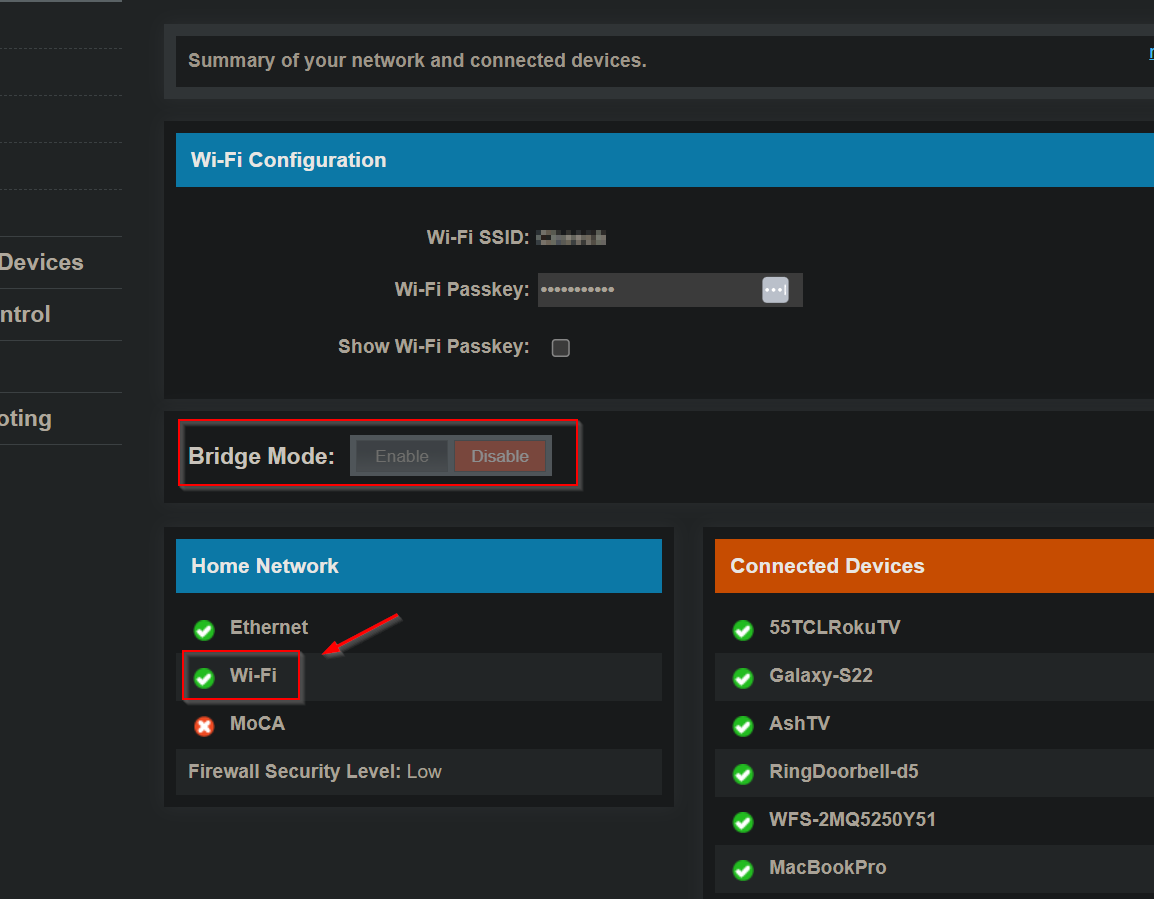
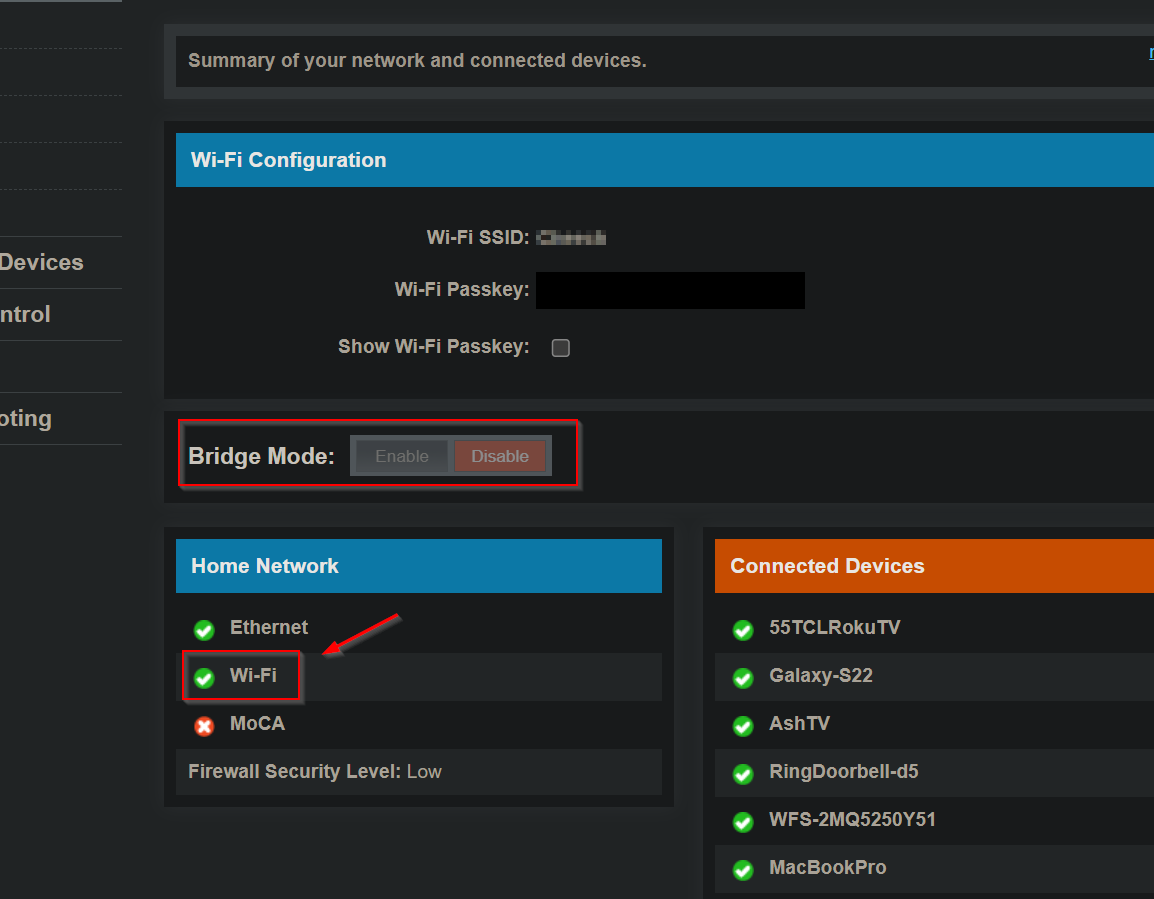
security: use solid redaction boxes on four screenshots; add a public-safety check

Changed region(s): [[0.4367, 0.2803, 0.7175, 0.3426]]

diff --git a/scripts/check-public-safety.py b/scripts/check-public-safety.py
@@ -1,0 +1,87 @@
+#!/usr/bin/env python3
+"""Fail on things that must not appear in a public repo.
+
+Checks tracked text files for MAC addresses and non-private IPv4 addresses, and
+lists image files that need a human to look at them (a scanner cannot read a
+screenshot). Known false positives go in .public-safety-allow, one exact match
+per line ("path:value" or just "value").
+
+Usage: scripts/check-public-safety.py [--images-since GIT_REF]
+Exit 0 = clean, 1 = findings.
+"""
+import ipaddress, re, subprocess, sys
+from pathlib import Path
+
+TEXT_SKIP = {".png", ".jpg", ".jpeg", ".gif", ".webp", ".pdf", ".ico", ".woff", ".woff2", ".zip"}
+IMAGE_EXT = {".png", ".jpg", ".jpeg", ".gif", ".webp"}
+MAC = re.compile(r"(?<![0-9A-Fa-f:.-])(?:[0-9A-Fa-f]{2}[:-]){5}[0-9A-Fa-f]{2}(?![0-9A-Fa-f:-])")
+IPV4 = re.compile(r"(?<![\w.])(\d{1,3}(?:\.\d{1,3}){3})(?![\w]|\.\d)")
+PLACEHOLDER_MACS = {"aa:bb:cc:dd:ee:ff", "00:00:00:00:00:00", "ff:ff:ff:ff:ff:ff", "xx:xx:xx:xx:xx:xx"}
+DOC_NETS = [ipaddress.ip_network(n) for n in ("192.0.2.0/24", "198.51.100.0/24", "203.0.113.0/24")]
+CGNAT = ipaddress.ip_network("100.64.0.0/10")
+# Well-known public resolvers that appear in DNS documentation; they identify nobody.
+# 100.64.0.0 is the CGNAT network address used when documenting the tailnet range, not a host.
+KNOWN_PUBLIC = {"100.64.0.0", "1.1.1.1", "1.0.0.1", "8.8.8.8", "8.8.4.4", "9.9.9.9", "149.112.112.112", "208.67.222.222", "208.67.220.220"}
+
+def tracked_files():
+    out = subprocess.check_output(["git", "ls-files", "-z"], text=True)
+    return [Path(p) for p in out.split("\0") if p]
+
+def load_allow():
+    p = Path(".public-safety-allow")
+    return {l.strip() for l in p.read_text().splitlines() if l.strip() and not l.startswith("#")} if p.exists() else set()
+
+def classify(ip_text):
+    if ip_text in KNOWN_PUBLIC:
+        return None
+    try:
+        ip = ipaddress.ip_address(ip_text)
+    except ValueError:
+        return None
+    if any(ip in n for n in DOC_NETS) or ip.is_unspecified or ip.is_multicast:
+        return None
+    if ip in CGNAT:
+        return "tailnet address (identifies a device)"
+    if ip.is_private or ip.is_loopback or ip.is_link_local:
+        return None
+    return "public IPv4 address"
+
+def main():
+    allow = load_allow()
+    findings, images = [], []
+    for path in tracked_files():
+        if path.suffix.lower() in IMAGE_EXT:
+            images.append(path)
+        if path.suffix.lower() in TEXT_SKIP or not path.is_file():
+            continue
+        try:
+            text = path.read_text(errors="ignore")
+        except OSError:
+            continue
+        for n, line in enumerate(text.splitlines(), 1):
+            for m in MAC.finditer(line):
+                v = m.group(0)
+                if v.lower() in PLACEHOLDER_MACS or v in allow or f"{path}:{v}" in allow:
+                    continue
+                findings.append((path, n, "MAC address", v))
+            for m in IPV4.finditer(line):
+                v = m.group(1)
+                kind = classify(v)
+                if kind and v not in allow and f"{path}:{v}" not in allow:
+                    findings.append((path, n, kind, v))
+    for path, n, kind, v in findings:
+        print(f"::error file={path},line={n}::{kind} found (value hidden in the log)")
+        print(f"FINDING {path}:{n}: {kind}")
+    if images:
+        print(f"\nREVIEW BY EYE: {len(images)} tracked image file(s). A scanner cannot read screenshots; "
+              "before publishing any new or changed image, open it and check for passwords, tokens, MACs, "
+              "public IPs, SSIDs, names, device serials, and blurred or pixelated areas over secrets "
+              "(pixelation is not redaction; use a solid box).")
+    if findings:
+        print(f"\n{len(findings)} finding(s). Fix them, or add a justified line to .public-safety-allow.")
+        return 1
+    print("public-safety: no MAC addresses, public IPs or tailnet addresses in tracked text files.")
+    return 0
+
+if __name__ == "__main__":
+    sys.exit(main())

diff --git a/docs/public-safety-checklist.md b/docs/public-safety-checklist.md
@@ -1,0 +1,9 @@
+# Public-safety checklist
+
+This repo is public. Before committing or publishing, check:
+
+1. **Run the scanner:** `python3 scripts/check-public-safety.py`. It fails on MAC addresses, non-private IPv4 addresses and tailnet (`100.64.0.0/10`) addresses in tracked text. It also runs in CI (`docs-check.yml`). A justified exception goes in `.public-safety-allow`.
+2. **Look at every screenshot yourself.** No scanner can read an image. Open each new or changed image and check for passwords, tokens, keys, MACs, public IPs, account IDs, SSIDs, people's names (including room names), device serial numbers, and hostnames tied to a personal handle.
+3. **Never use blur or pixelation over a secret.** Pixelated text can be partly recovered. Cover it with a solid opaque box. Masked password dots also reveal the length; cover them too.
+4. **Deleting a file does not delete it from history.** If a secret was ever committed, rotate it first; a history rewrite is optional and does not un-leak it.
+5. **Private LAN addresses** (`192.168.x.x`) are published on purpose in this repo and are not reachable from the internet. Do not publish anything that identifies a person or a credential.
